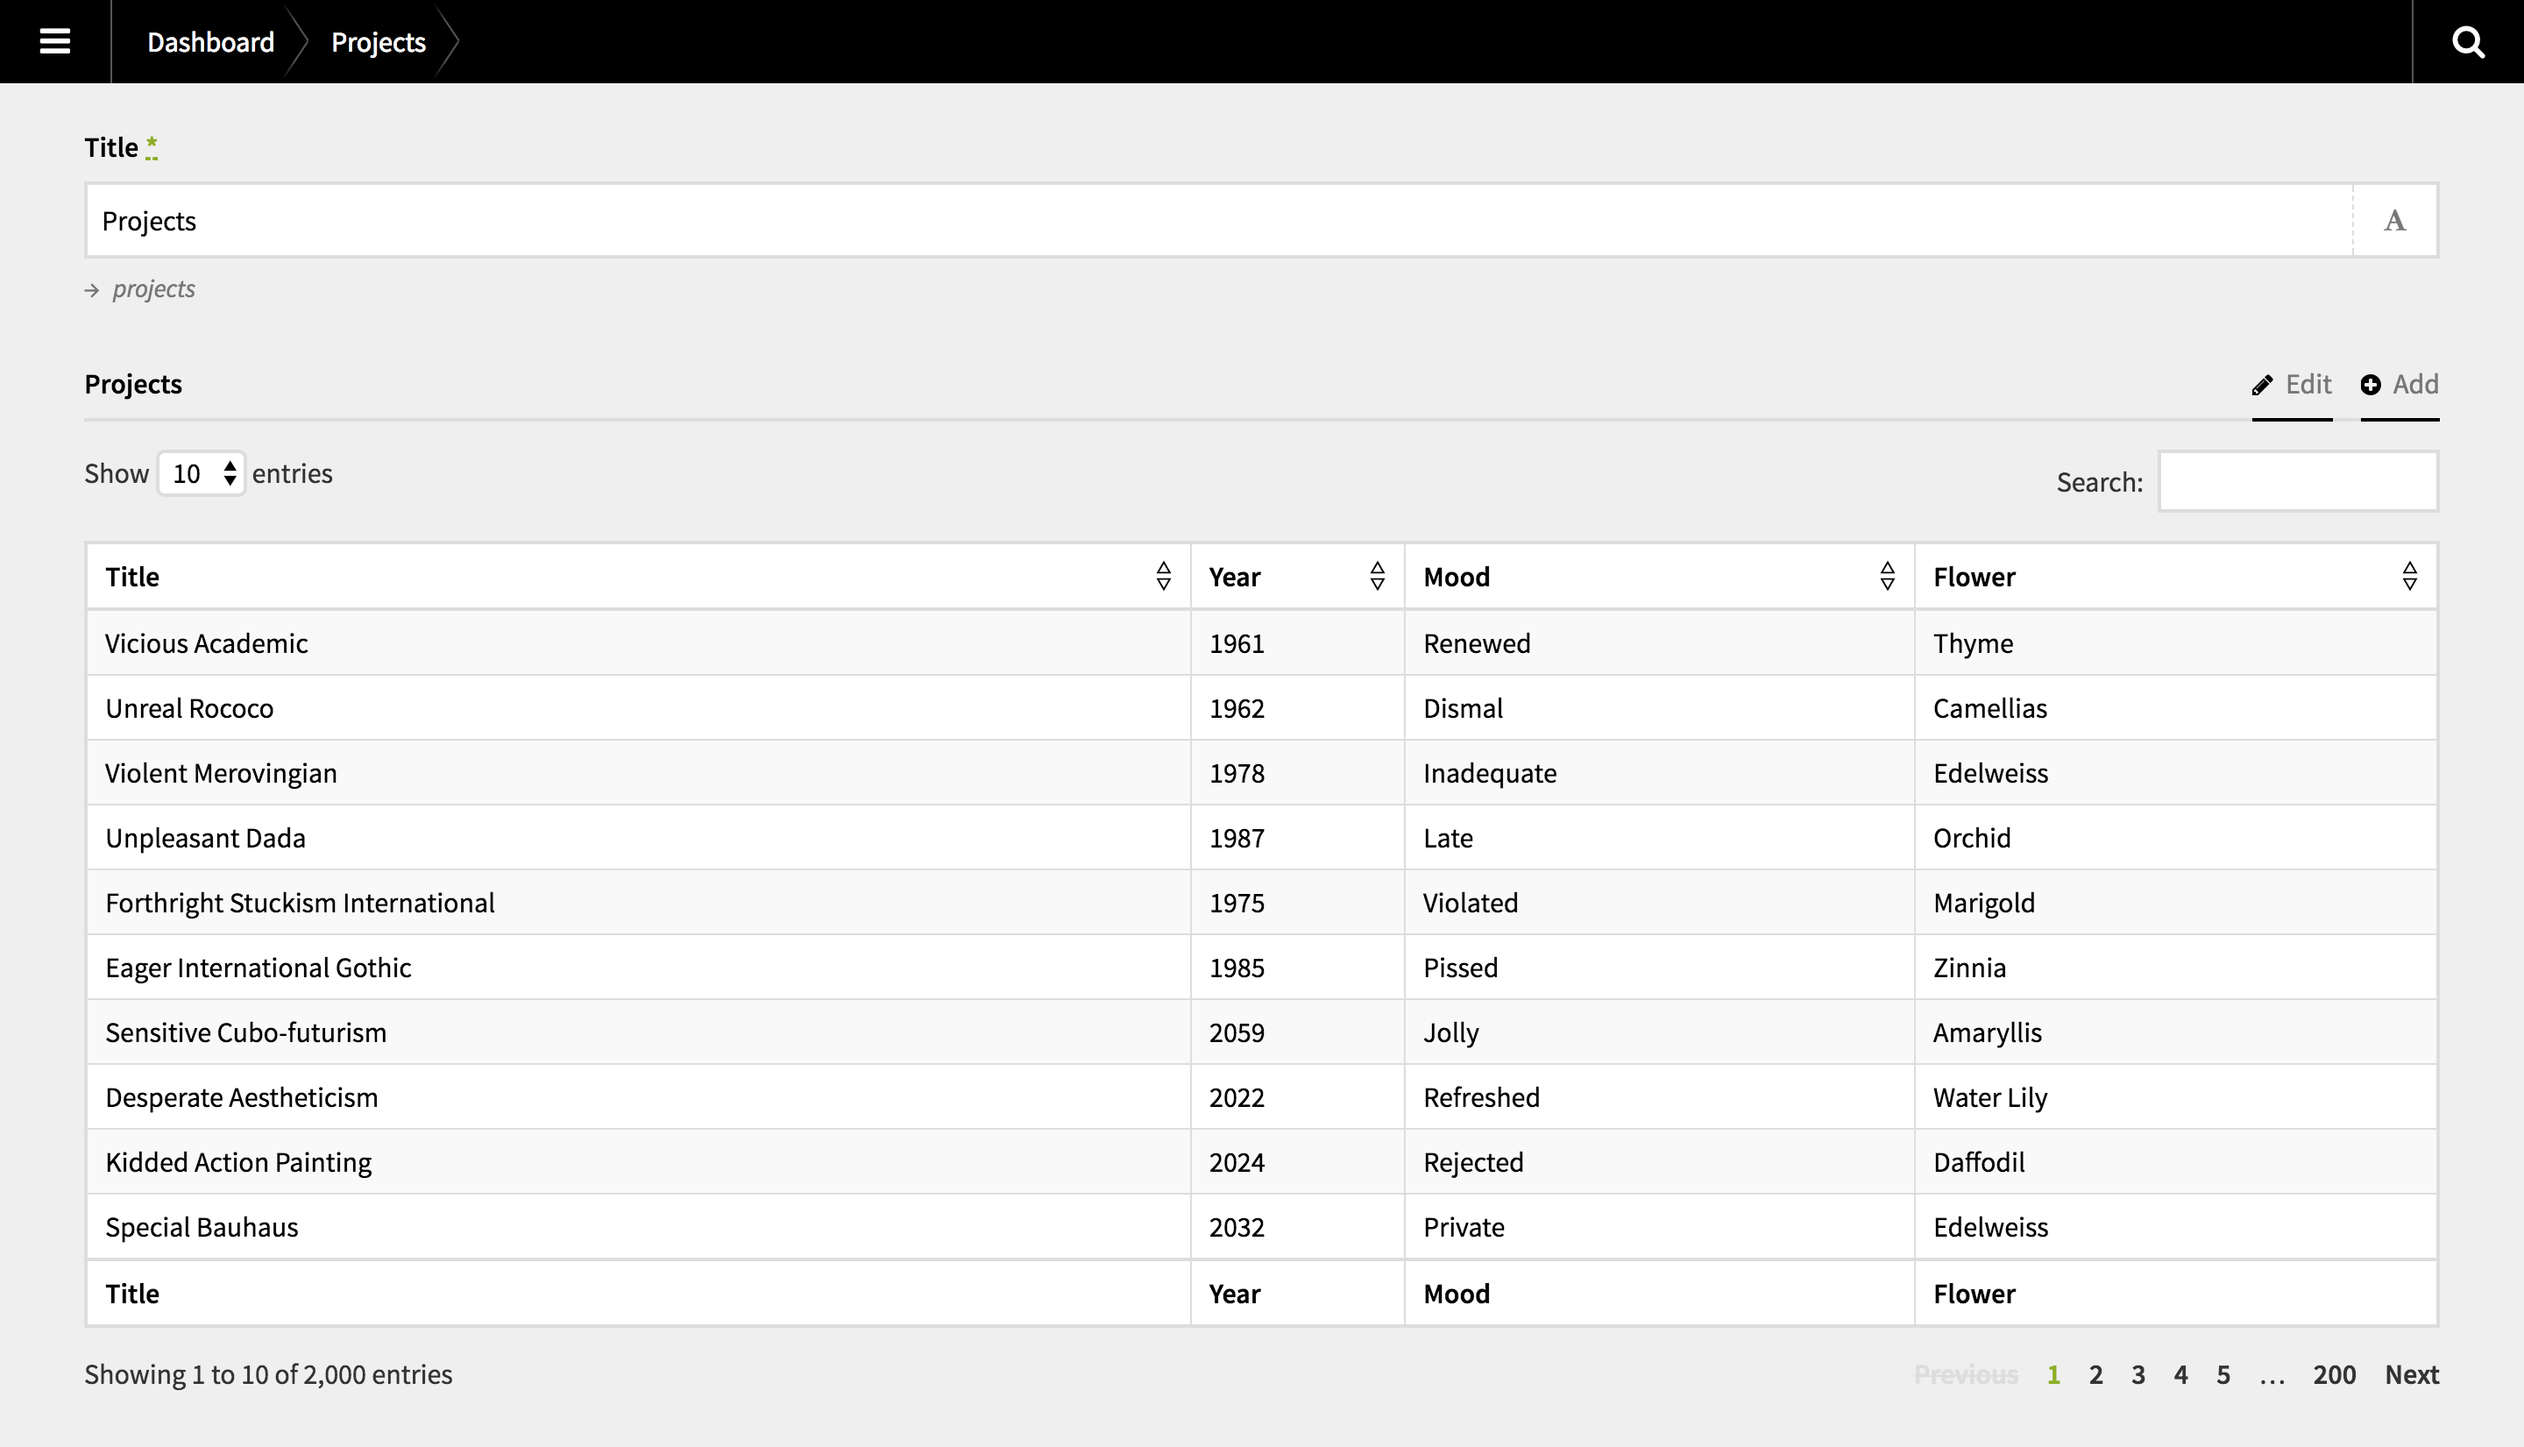
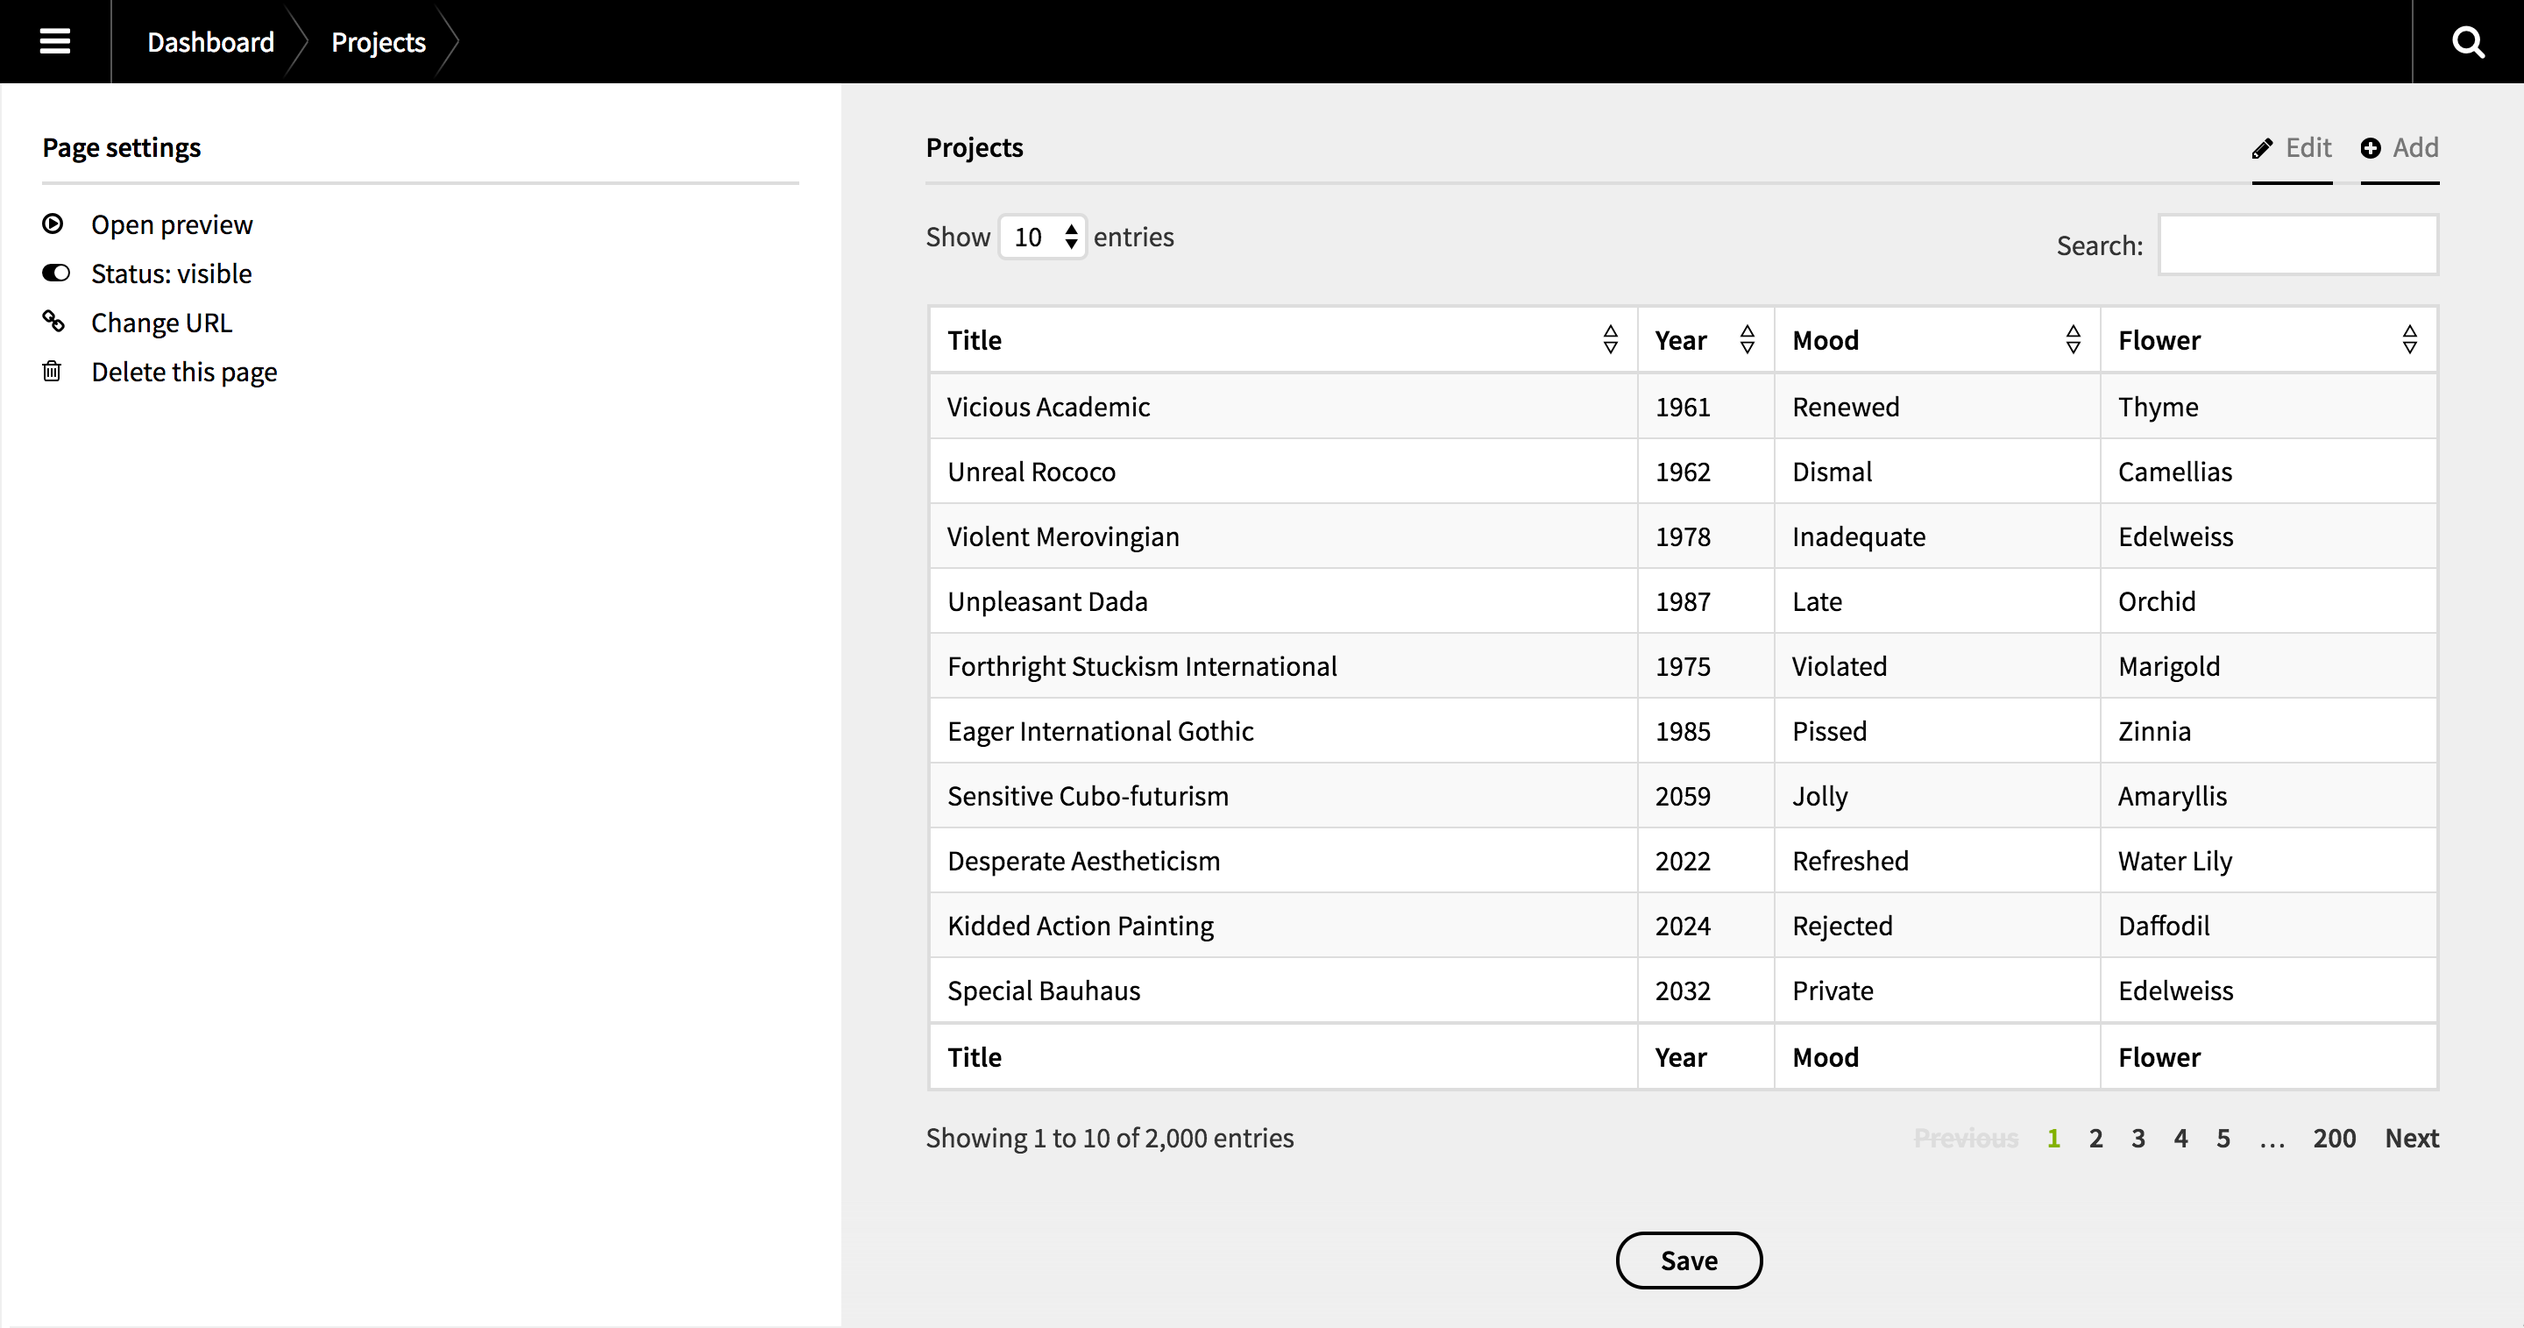
preview tweak

diff --git a/readme.md b/readme.md
@@ -2,11 +2,9 @@
 
 Kirby field which displays pages (or files) as a [datalist](https://datatables.net/).
 
-This is useful for navigating large sets of pages with filtering and sorting. Enables Kirby to be used a little more like a database.
+This is useful for navigating large sets of pages with filtering and sorting. Enables Kirby to be used a little more like a database. Pairs nicely with [kirby-hidebar-field](https://github.com/jongacnik/kirby-hidebar-field).
 
 ![Preview](https://github.com/jongacnik/kirby-index-field/blob/master/preview.png?raw=true)
-
-<small><em>Sidebar hidden using <a href="https://github.com/jongacnik/kirby-hidebar-fieldd">kirby-hidebar-field</a></em></small>
 
 ## Examples
 
